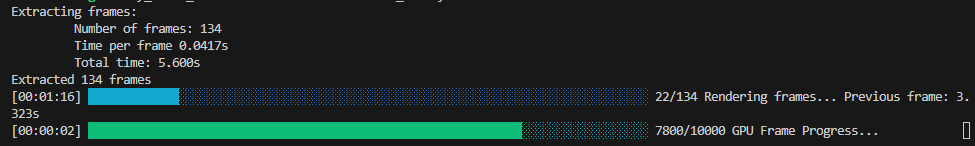
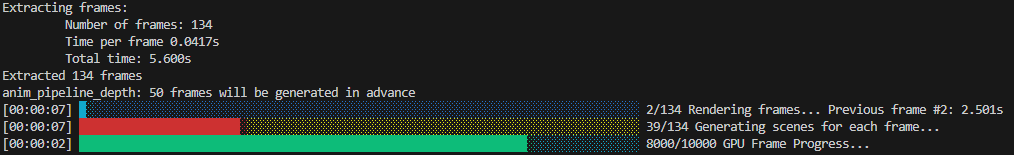
More formatting changes

Changed region(s): [[0.0, 0.0, 1.0, 0.9863], [0.9846, 0.8219, 1.0, 0.9589], [0.1231, 0.0, 0.1538, 0.0274]]

diff --git a/README.md b/README.md
@@ -225,17 +225,21 @@ PS E:\Rust Labs\project\Ray_Trace-Rust\target\release> .\ray_trace_rust ..\..\sc
 ```
 And animation rendering: 
 ``` bash
-PS E:\Rust Labs\project\Ray_Trace-Rust\target\release> .\ray_trace_rust ..\..\schemes\bounce_anim.yml
+PS E:\Rust Labs\project\Ray_Trace-Rust\target\release> .\ray_trace_rust ..\..\schemes\bounce_anim.yml 
 Extracting frames: 
          Number of frames: 134
          Time per frame 0.0417s
          Total time: 5.600s
 Extracted 134 frames
+anim_pipeline_depth: 50 frames will be generated in advance
 
-[00:00:13] █░░░░░░░░░░░░░░░░░░░░░░░░░░░░░░░░░░░░░░░░░░░░░░░░░░░░░░░░░░░░░░░░░░░░░░░░░░░░░░░ 3/134 Rendering frames... Previous frame: 3.347s
+[00:00:07] █░░░░░░░░░░░░░░░░░░░░░░░░░░░░░░░░░░░░░░░░░░░░░░░░░░░░░░░░░░░░░░░░░░░░░░░░░░░░░░░ 2/134 Rendering frames... Previous frame #2: 2.501s
 
-[00:00:03] ██████████████████████████████████████████████████████████████████████████████░░ 9800/10000 GPU Frame Progress...
+[00:00:07] ███████████████████████░░░░░░░░░░░░░░░░░░░░░░░░░░░░░░░░░░░░░░░░░░░░░░░░░░░░░░░░░ 39/134 Generating scenes for each frame...
+
+[00:00:02] ████████████████████████████████████████████████████████████████░░░░░░░░░░░░░░░░ 8000/10000 GPU Frame Progress...
 ```
+
 <p align="center">
 <img src="./info/images/progress_bar.png" width="800" />
 </p>
